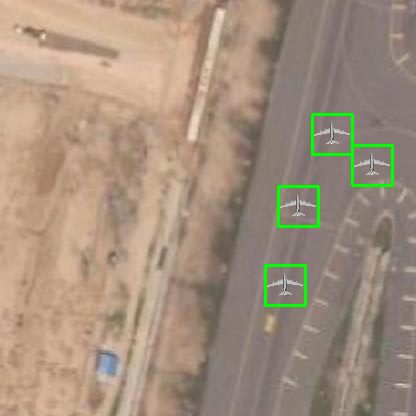
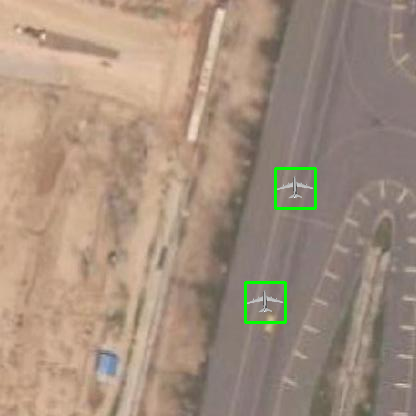
on off bb

Changed region(s): [[0.75, 0.25, 0.9688, 0.4688], [0.5625, 0.625, 0.75, 0.7812], [0.6562, 0.375, 0.7812, 0.5625]]

diff --git a/overlay_img.py b/overlay_img.py
@@ -1,6 +1,7 @@
 from PIL import Image
 import os
 import cv2
+from matplotlib.pyplot import flag
 import numpy as np
 import glob
 from tqdm import tqdm
@@ -73,7 +74,7 @@ def auto_labels_generation(coordinates_list,offset,bg_img_h,bg_img_w,f_img_h,f_i
     txt_file_classes.write('airplane')
     txt_file_classes.close()
 
-def dataset_labels_gen(param,overlayimg_list,coordinates_list,offset=5):
+def dataset_labels_gen(param,overlayimg_list,coordinates_list,offset,flag_rect):
 
     print('[INFO]:: Generating Synthetic Satellite Imagery Dataset')
     for k in tqdm(overlayimg_list):
@@ -97,11 +98,12 @@ def dataset_labels_gen(param,overlayimg_list,coordinates_list,offset=5):
         # Getting size of the image
         bg_img_h, bg_img_w, _ = obj_img_cv.shape
         f_img_h, f_img_w = fornt_img.size
-        
-        for obj_pt in coordinates_list:
-            cv2.rectangle(obj_img_cv, (obj_pt[0]+offset, obj_pt[1]+offset), 
-                        (obj_pt[0]+f_img_h-offset, obj_pt[1]+f_img_w-offset), 
-                        (0, 255, 0), 2)
+
+        if (flag_rect == True):
+            for obj_pt in coordinates_list:
+                cv2.rectangle(obj_img_cv, (obj_pt[0]+offset, obj_pt[1]+offset), 
+                            (obj_pt[0]+f_img_h-offset, obj_pt[1]+f_img_w-offset), 
+                            (0, 255, 0), 2)
         
         obj_img_cv_bgr = cv2.cvtColor(obj_img_cv, cv2.COLOR_RGB2BGR)
 
@@ -123,7 +125,7 @@ def dataset_labels_gen(param,overlayimg_list,coordinates_list,offset=5):
         txt_file_classes.write('airplane')
         txt_file_classes.close()
 
-def overlayimg_make(offset=5):
+def overlayimg_make(offset=5,flag_rect=False):
 
     # Remove all files in dir
     dir = output_folderName
@@ -137,7 +139,7 @@ def overlayimg_make(offset=5):
     cv2.destroyAllWindows()
     print(coordinates_list)
 
-    dataset_labels_gen(background_img,overlay_imgs_list,coordinates_list,offset)
+    dataset_labels_gen(background_img,overlay_imgs_list,coordinates_list,offset,flag_rect)
 
     print('[INFO]:: Synthetic Satellite Imagery Dataset Generated')
         

diff --git a/main.py b/main.py
@@ -17,7 +17,8 @@ transparent_overlayimg()
 
 # Paste Transperent Overlay on Satilite Imagery
 offset = 5
-overlayimg_make(offset)
+flag_rect = True
+overlayimg_make(offset,flag_rect)
 
 # Bounding Box Generation
 
